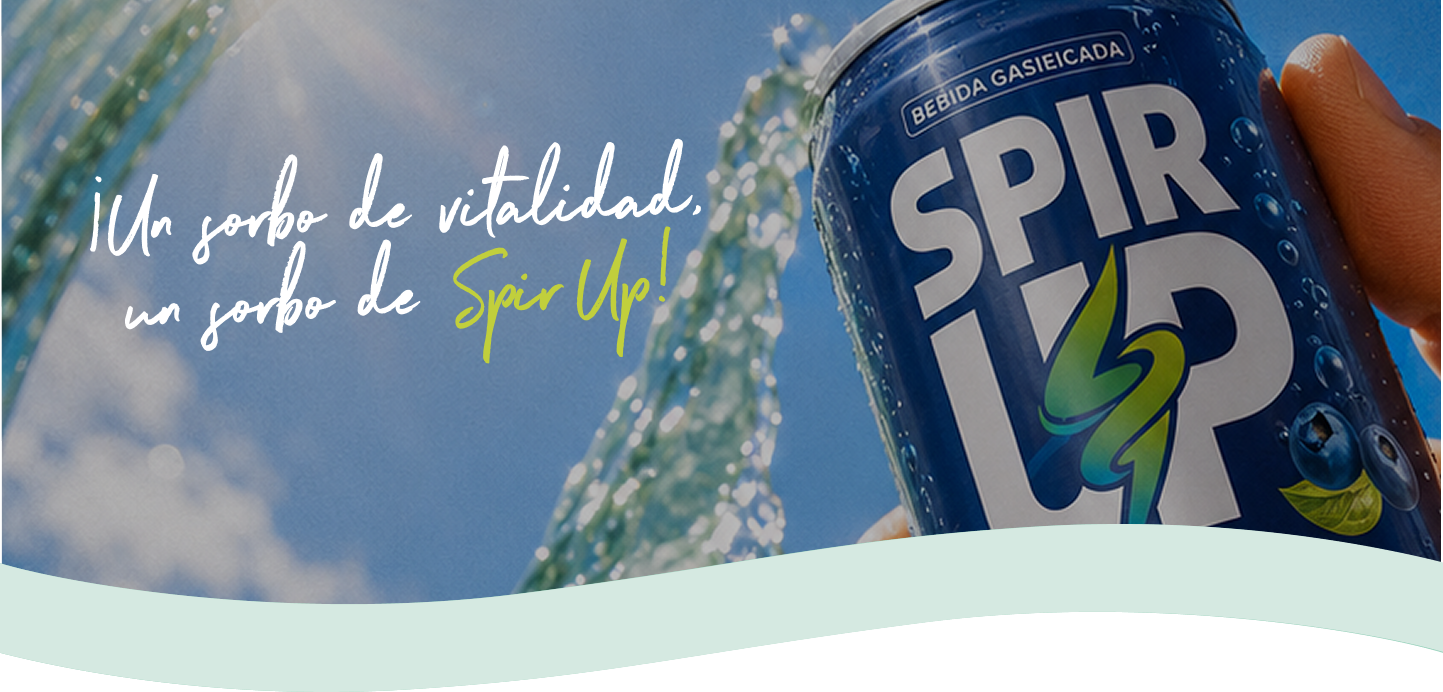
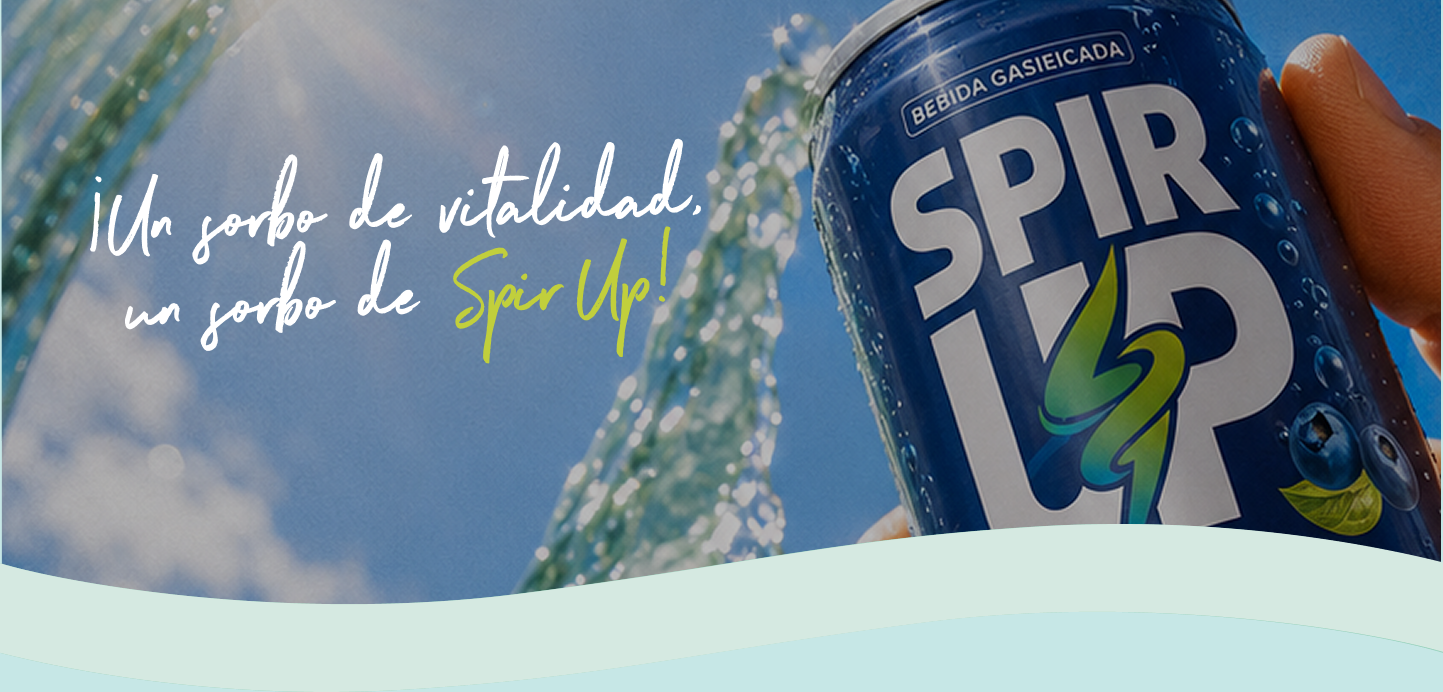
Hero marquee: (1) eliminar el negro rellenando bajo la ola con aqua opaco (#c6e7e6) en la imagen - sin transparencia, imposible que salga negro; (2) texto centrado sobre la ola (dominant-baseline central, sin dy) y bajado/ajustado (cy 102, amp 34, 26px) para que siga la curva sin tocar la foto ni sa

Changed region(s): [[0.2807, 0.8801, 1.0, 1.0], [0.9979, 0.0, 1.0, 0.8194], [0.0, 0.9408, 0.1871, 1.0]]

diff --git a/wp-content/themes/astra-child/style.css b/wp-content/themes/astra-child/style.css
@@ -287,8 +287,9 @@ html { scroll-behavior: smooth; }
 .spirup-wavetext {
 	fill: #2f6b74;
 	font-weight: 600;
-	font-size: 30px;
+	font-size: 26px;
 	letter-spacing: 0.2px;
+	dominant-baseline: central;
 }
 .spirup-wavebolt {
 	fill: #6cbf3f;

diff --git a/wp-content/themes/astra-child/front-page.php b/wp-content/themes/astra-child/front-page.php
@@ -30,7 +30,7 @@ $img = get_stylesheet_directory_uri() . '/imagenes';
 		   periodo (id=spirupwavepath, x 0..1443) igual a la ola de la imagen.
 		   Se dibujan DOS copias identicas (la 2a corrida +1443) y el grupo entero
 		   se traslada -1443 en loop => el texto fluye siguiendo la curva, sin costura. */
-		$W = 1443; $cy = 84; $amp = 40; $d = 'M 0 ' . $cy;
+		$W = 1443; $cy = 102; $amp = 34; $d = 'M 0 ' . $cy;
 		$arc = 0.0; $px = 0.0; $py = $cy;
 		for ( $x = 3; $x <= $W; $x += 3 ) {
 			$y = $cy + $amp * sin( 2 * M_PI * $x / $W );
@@ -47,10 +47,10 @@ $img = get_stylesheet_directory_uri() . '/imagenes';
 				<defs><path id="spirupwavepath" d="<?php echo esc_attr( $d ); ?>" fill="none"></path></defs>
 				<g class="spirup-wavescroll">
 					<animateTransform attributeName="transform" type="translate" from="0 0" to="-1443 0" dur="16s" repeatCount="indefinite"></animateTransform>
-					<text class="spirup-wavetext" dy="9" textLength="<?php echo esc_attr( $arc ); ?>" lengthAdjust="spacingAndGlyphs">
+					<text class="spirup-wavetext" textLength="<?php echo esc_attr( $arc ); ?>" lengthAdjust="spacingAndGlyphs">
 						<textPath href="#spirupwavepath"><?php echo $wave_text; // phpcs:ignore ?></textPath>
 					</text>
-					<text class="spirup-wavetext" dy="9" transform="translate(1443 0)" textLength="<?php echo esc_attr( $arc ); ?>" lengthAdjust="spacingAndGlyphs">
+					<text class="spirup-wavetext" transform="translate(1443 0)" textLength="<?php echo esc_attr( $arc ); ?>" lengthAdjust="spacingAndGlyphs">
 						<textPath href="#spirupwavepath"><?php echo $wave_text; // phpcs:ignore ?></textPath>
 					</text>
 				</g>
